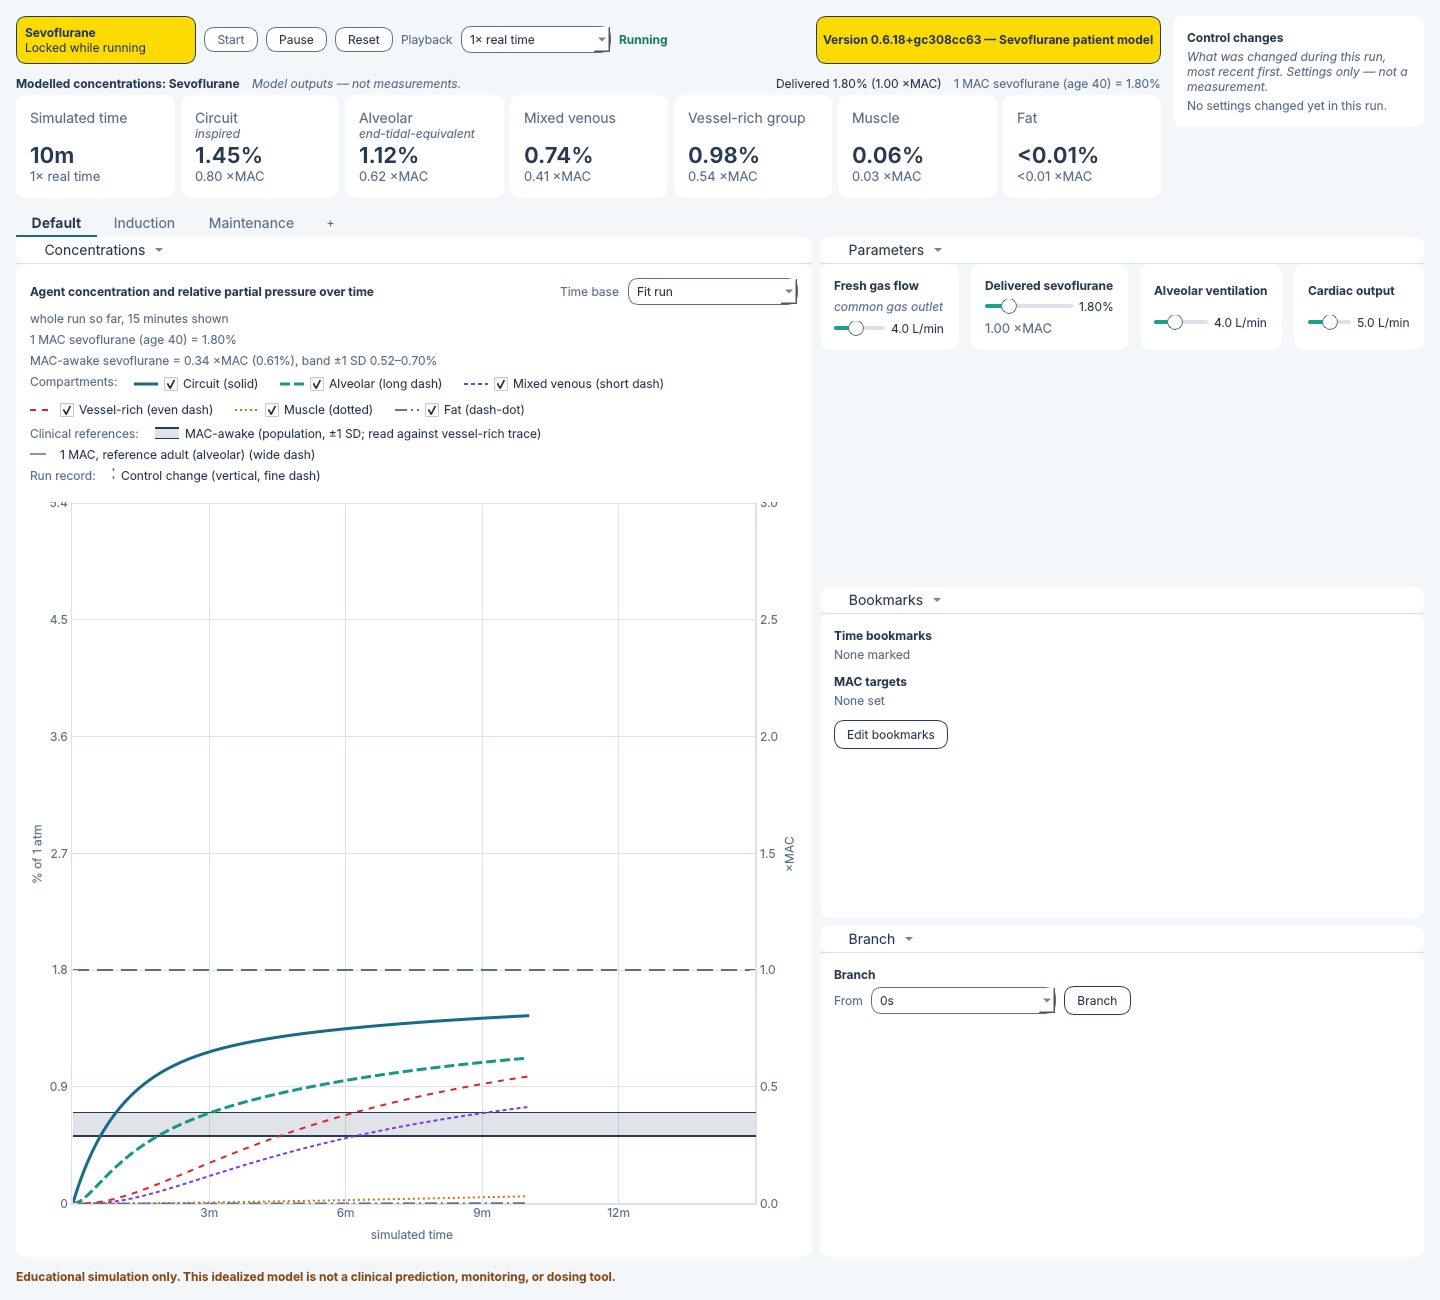
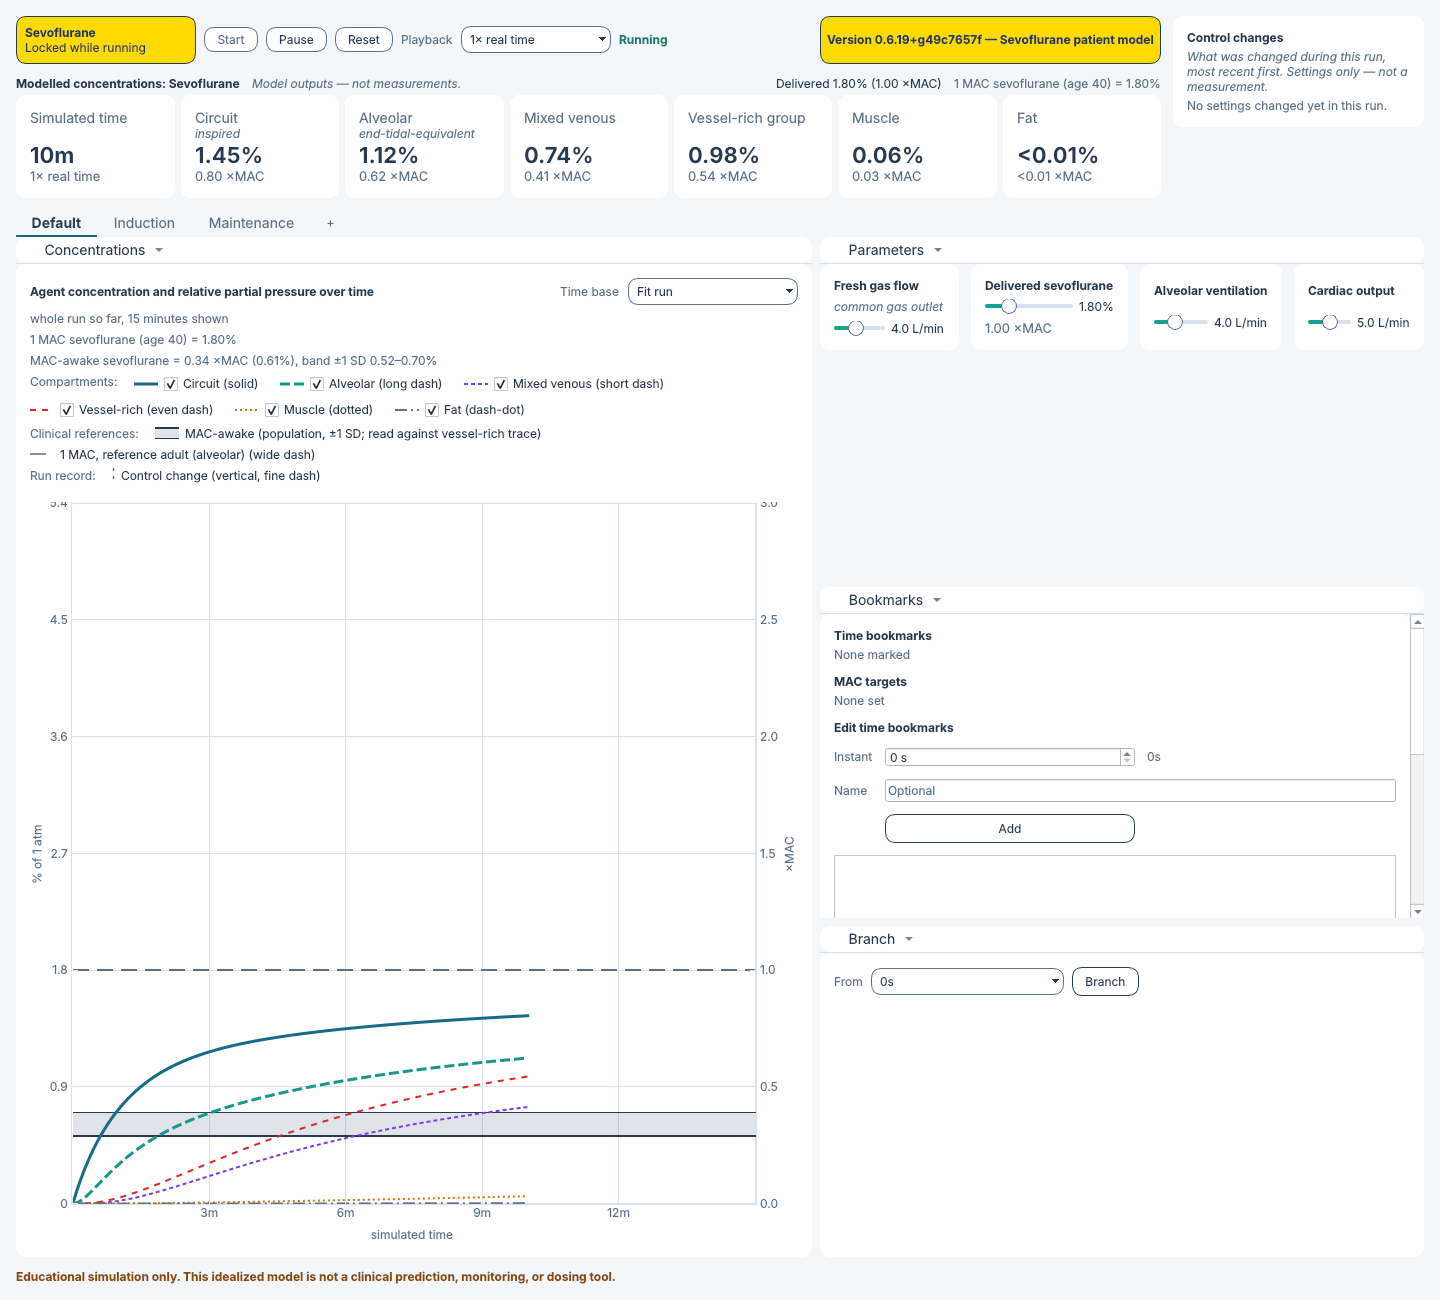
PL-LBVN: retake the README image on this base and name release 0.6.19
The README's caption said the image was rendered from the code after
release 0.6.18. That was true on the branch the image was taken from, but
this branch now carries v0.6.19 and the marks editor's move into the
Bookmarks View (PL-CHX0). The image is retaken here with
tests/benchmarks/readme_screenshot.py, and the caption now names release
0.6.19. The six readouts the alt text lists are unchanged: 1.45%, 1.12%,
0.74%, 0.98%, 0.06% and <0.01%.

Claude-Session: https://claude.ai/code/session_01GnrHQu4K1CjbtWw5k37Eox

diff --git a/README.md b/README.md
@@ -20,7 +20,7 @@ for teaching.
 <!-- provenance: data/machines/reference_circle_system.json default_fresh_gas_flow_l_min = 4 -->
 
 *The default case after ten simulated minutes, rendered on 2026-11-22 from the
-code after release 0.6.18. Every value shown is a model output. The script
+code after release 0.6.19. Every value shown is a model output. The script
 `tests/benchmarks/readme_screenshot.py` retakes the image.*
 
 ## What it is for
